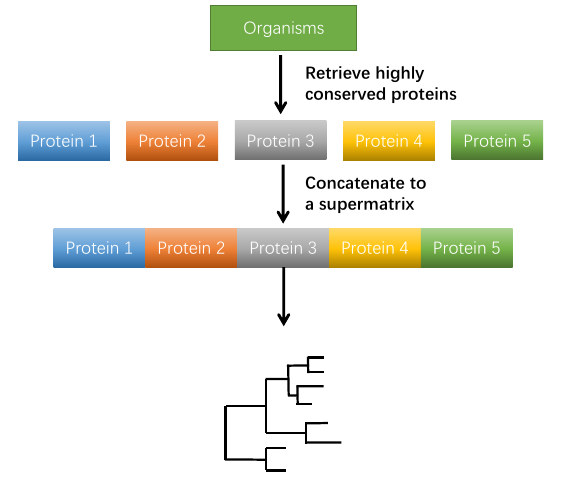
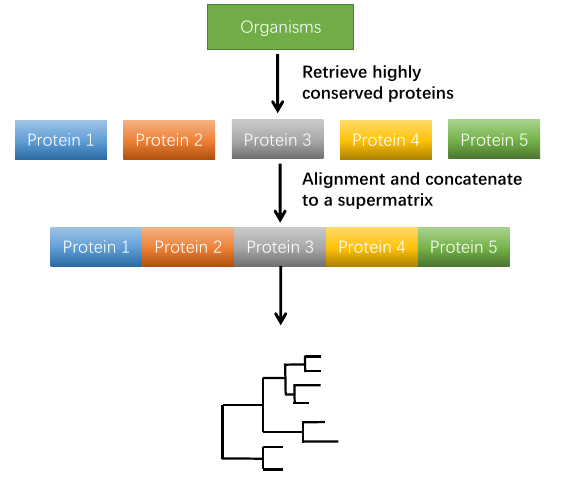
update tutorial tree of life rna

Changed region(s): [[0.0, 0.0, 0.9594, 0.6875], [0.3898, 0.6875, 0.5996, 1.0]]

diff --git a/docs/docs/tutorial.md b/docs/docs/tutorial.md
@@ -151,6 +151,15 @@ mja     range   #996433 Archaea
 
 ### Auto build Tree of life by 16s SSU RNA
 
+* **Concept**
+
+![physpe_concept_hcp](img/physpe_concept_rna.png)
+
+Physpe provide auto reconstruct phylogenetic tree by 16s SSU RNA, the concept of this way is use alignment organisms 16s SSU RNA and then reconstruct 
+phylogenetic tree.
+
+
+
 ####  1.Prepare organism names list, 191 organisms names list [download][1]  
 
 ```bash
